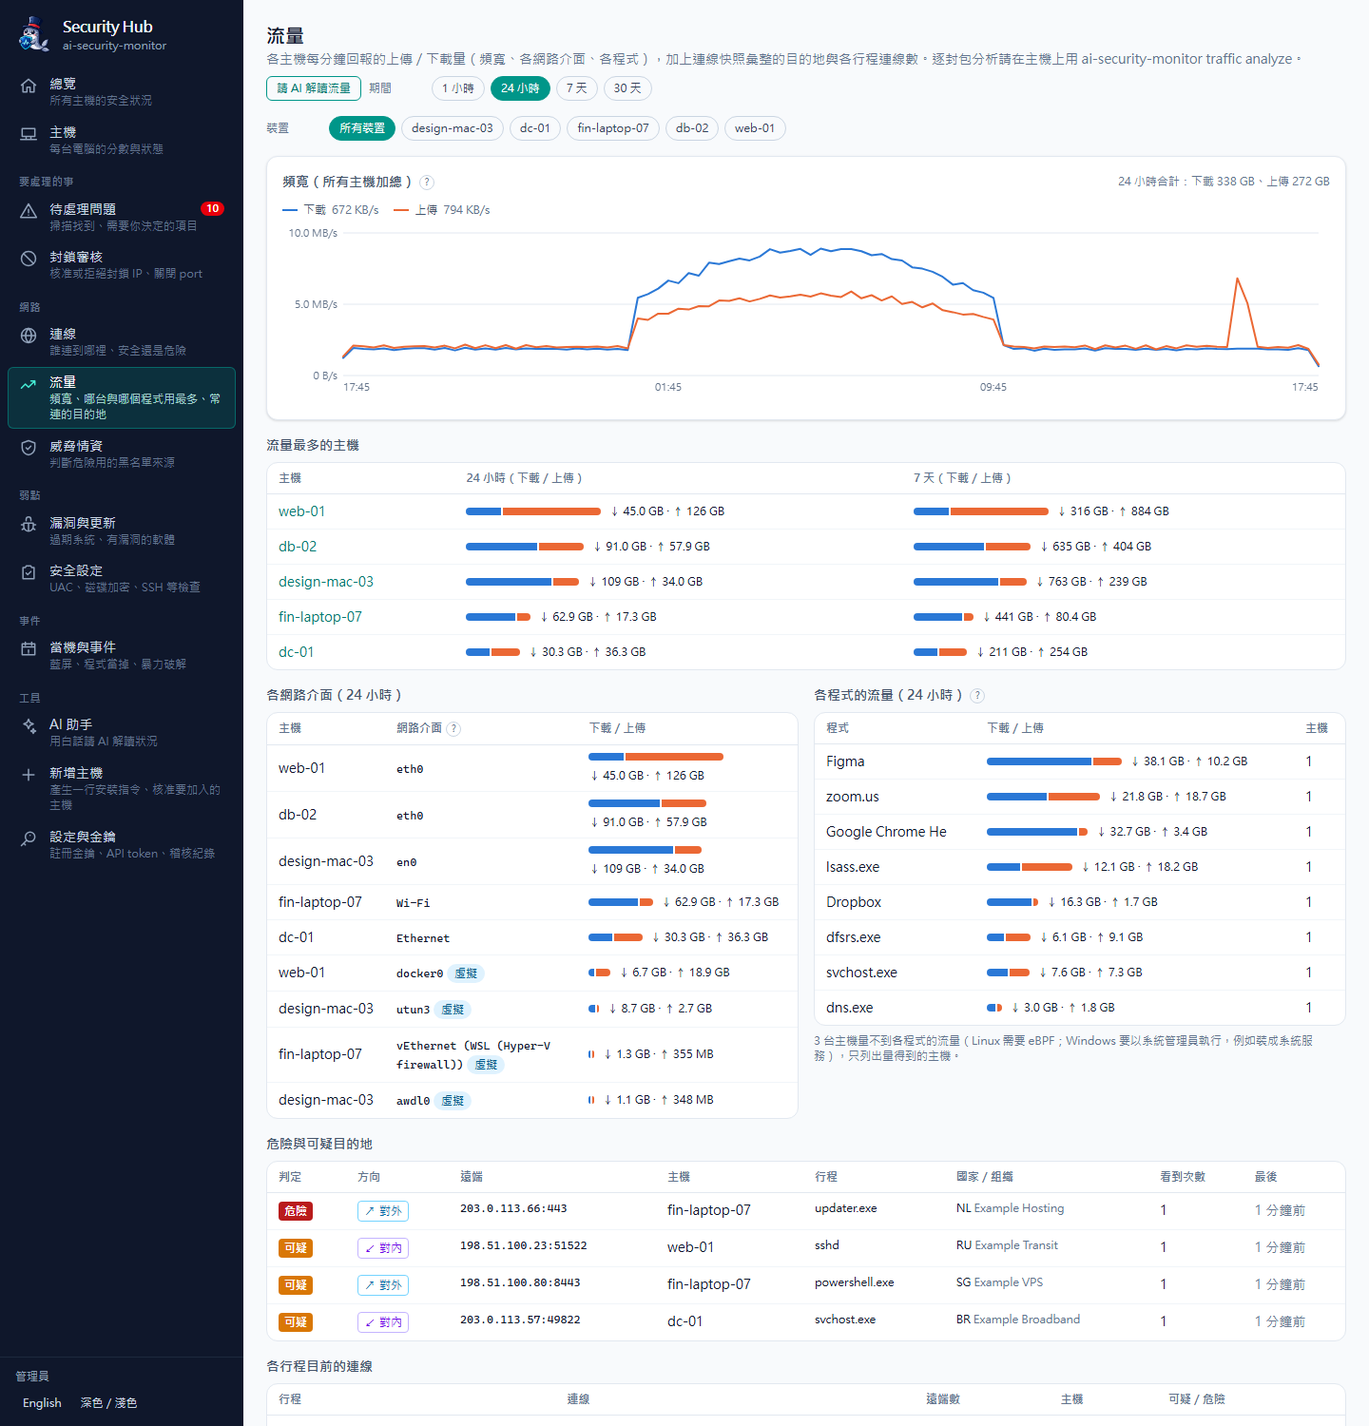
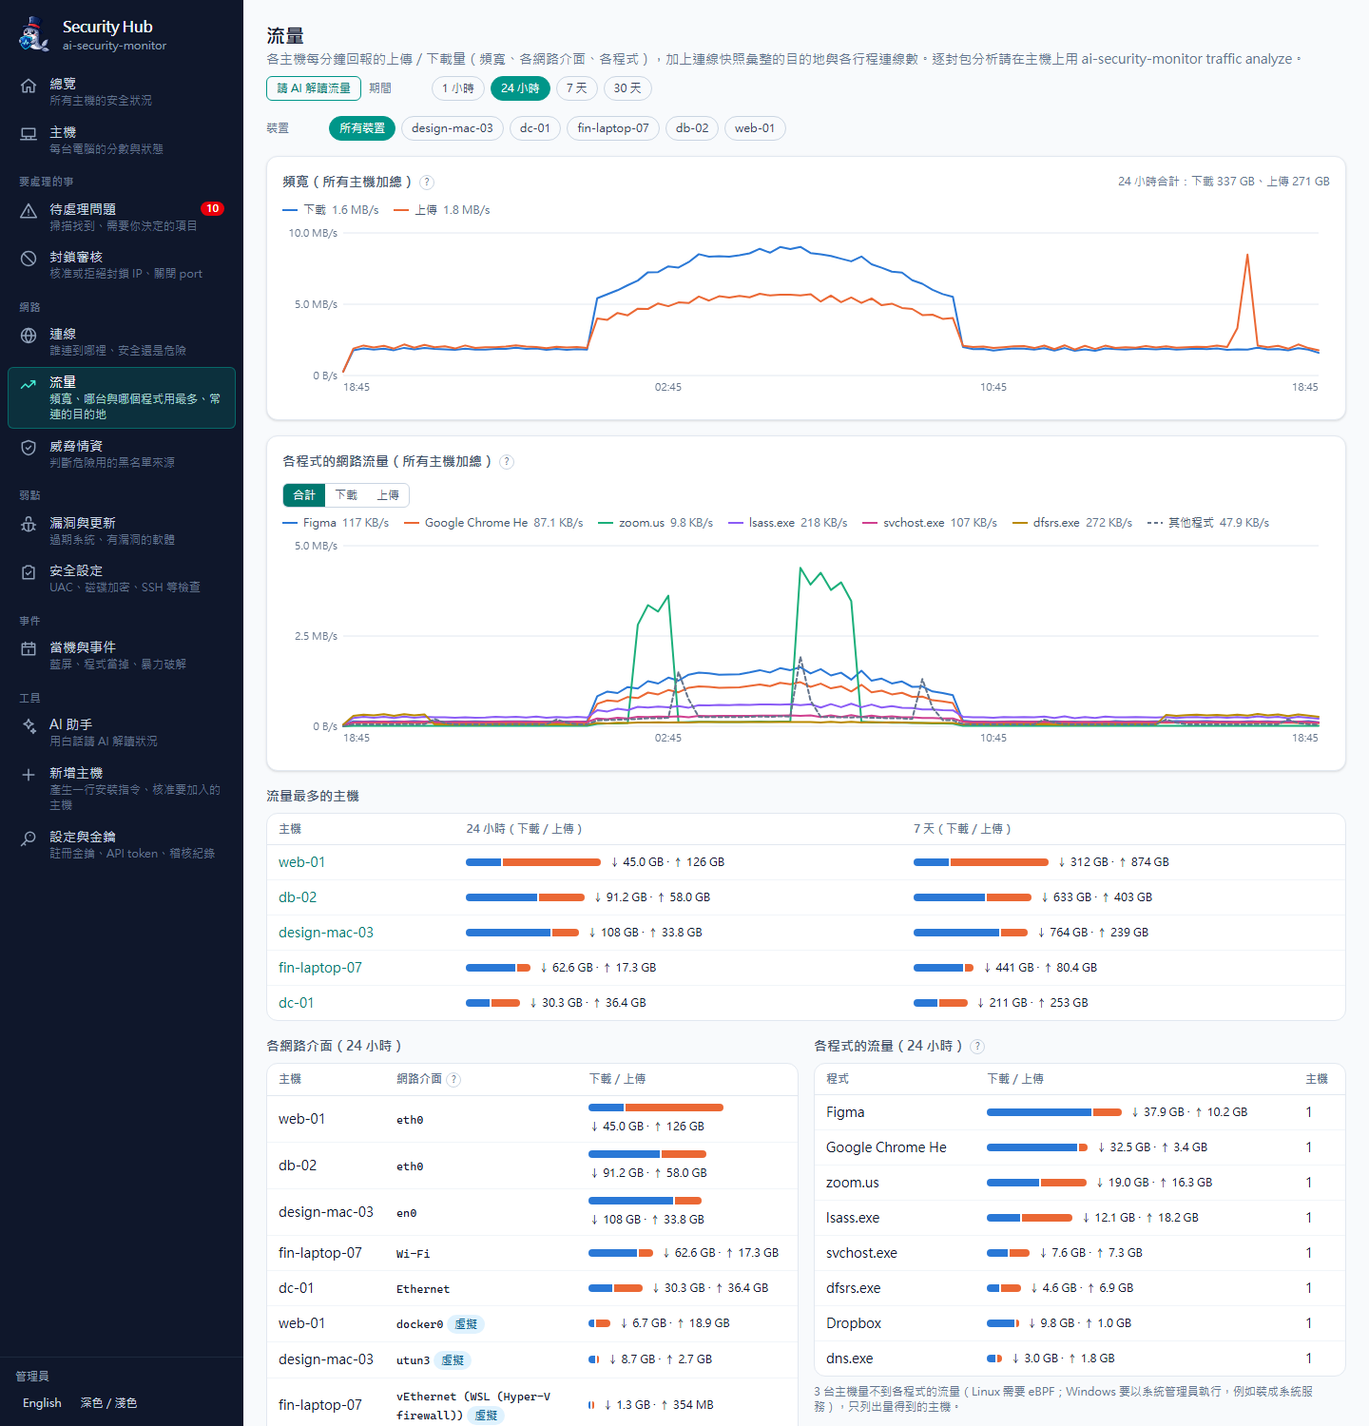
feat(hub): 各程式的網路流量圖（前 6 名各一條線＋其他，可切換合計／下載／上傳）
流量頁與主機「流量」分頁在頻寬圖下多一張各程式的時間序列圖。processSeries() 在 SQL 先把
前 6 名以外合併成「其他」，列數固定；有回報但該程式沒出現的時段算 0、沒人回報的時段斷開。
量不到時直接說明怎麼開（Windows 系統服務、macOS 自動、Linux 量不到）。新增 --chart-4～6
色票；示範資料的程式加上各自的使用時段，重拍流量頁截圖。

diff --git a/hub/components/metrics/MetricsViews.tsx b/hub/components/metrics/MetricsViews.tsx
@@ -1,6 +1,7 @@
 // 網路流量與效能的頁面區塊（server component）：頻寬圖、主機流量排行、各介面、各程式、主機效能分頁。
 import Link from 'next/link';
 import { TimeChart } from '@/components/charts/TimeChart';
+import { ProcessTrafficChart } from '@/components/metrics/ProcessTrafficChart';
 import { Badge } from '@/components/ui/Badge';
 import { Card } from '@/components/ui/Card';
 import { EmptyState } from '@/components/ui/EmptyState';
@@ -14,6 +15,7 @@ import {
   hostPerfSeries,
   interfaceBreakdown,
   latestPerf,
+  processSeries,
   processTraffic,
   type HostTraffic,
   type IfaceTraffic,
@@ -210,7 +212,12 @@ export function ProcessTrafficTable({ t, data, showHosts = true }: { t: TFn; dat
 
 /** 流量頁最上面的區塊：所有主機的頻寬、排行、各介面、各程式。 */
 export async function FleetTrafficSection({ t, range, agentId, ranking = [] }: { t: TFn; range: Range; agentId?: string; ranking?: HostTraffic[] }) {
-  const [bw, ifaces, procs] = await Promise.all([bandwidthSeries(range, agentId), interfaceBreakdown(range, agentId, 30), processTraffic(range, agentId, 15)]);
+  const [bw, ifaces, procs, pseries] = await Promise.all([
+    bandwidthSeries(range, agentId),
+    interfaceBreakdown(range, agentId, 30),
+    processTraffic(range, agentId, 15),
+    processSeries(range, agentId, 6),
+  ]);
   if (!bw.hasData && !ranking.length) {
     return (
       <EmptyState title={t('還沒有流量統計')}>
@@ -235,6 +242,31 @@ export async function FleetTrafficSection({ t, range, agentId, ranking = [] }: {
       >
         <BandwidthChart t={t} data={bw} />
       </Card>
+      <Card
+        title={
+          <span>
+            {agentId ? t('各程式的網路流量') : t('各程式的網路流量（所有主機加總）')}
+            <Hint text={t('哪個程式在什麼時候用了多少網路：流量最多的 6 個程式各一條線，其餘合併成「其他程式」（虛線）。可切換合計、下載、上傳。')} />
+          </span>
+        }
+      >
+        {pseries.hasData ? (
+          <ProcessTrafficChart times={pseries.times} series={pseries.series} timeMode={timeMode(range)} />
+        ) : (
+          <div className="space-y-1 text-sm text-slate-500">
+            <p>{t('這段期間沒有主機回報各程式的流量，所以畫不出這張圖。')}</p>
+            <ul className="list-disc space-y-1 pl-5">
+              <li>
+                {t('Windows：背景服務要以系統管理員身分執行才讀得到。在「系統管理員」PowerShell 執行')}{' '}
+                <code className="rounded bg-slate-100 px-1 font-mono text-xs dark:bg-slate-800">ai-security-monitor service install --system --yes</code>
+                {t('（改成開機時啟動的系統服務），幾分鐘後就會有資料。')}
+              </li>
+              <li>{t('macOS：會自動回報（用系統內建的 nettop）。')}</li>
+              <li>{t('Linux：目前量不到各程式的流量，可以看下方「各行程目前的連線」。')}</li>
+            </ul>
+          </div>
+        )}
+      </Card>
       {!agentId && ranking.length ? (
         <section className="space-y-2">
           <h2 className={H2}>{t('流量最多的主機')}</h2>
@@ -257,7 +289,7 @@ export async function FleetTrafficSection({ t, range, agentId, ranking = [] }: {
             <ProcessTrafficTable t={t} data={procs} showHosts={!agentId} />
           ) : (
             <p className="rounded-xl border border-dashed border-slate-300 p-4 text-sm text-slate-500 dark:border-slate-700">
-              {t('這段期間沒有主機回報各程式的流量（Linux 需要 eBPF；Windows 要以系統管理員執行）。可以改看下方各行程的連線數。')}
+              {t('沒有資料，怎麼開啟請看上方「各程式的網路流量」。')}
             </p>
           )}
         </section>

diff --git a/hub/lib/queries/metrics.ts b/hub/lib/queries/metrics.ts
@@ -186,6 +186,66 @@ export async function processTraffic(range: Range, agentId?: string, limit = 20,
   };
 }
 
+export interface ProcSeries {
+  /** 程式名稱；null＝其餘程式合併的「其他」。 */
+  name: string | null;
+  /** 每個 bucket 的平均速率 bytes/s；這段時間沒有任何主機回報各程式流量是 null。 */
+  rx: (number | null)[];
+  tx: (number | null)[];
+  totalRx: number;
+  totalTx: number;
+}
+
+/** 各程式流量的時間序列：這段期間流量最多的前 top 個程式各一條，其餘合併成「其他」（在 SQL 裡先合併，列數固定）。 */
+export async function processSeries(range: Range, agentId?: string, top = 6, now = new Date()) {
+  const spec = RANGE_SPEC[range];
+  const { t, at } = table(sourceFor(spec.ms, spec.source));
+  const since = new Date(now.getTime() - spec.ms);
+  const res = await getDb().execute(sql`
+    with s as (
+      select floor(extract(epoch from ${at}) / ${spec.bucketS})::bigint * ${spec.bucketS} as b,
+             p->>'name' as name, (p->>'rx')::float8 as rx, (p->>'tx')::float8 as tx
+      from ${t} m join agents a on a.id = m.agent_id and a.deleted_at is null
+      cross join lateral jsonb_array_elements(m.processes) as p
+      where m.processes is not null and ${at} >= ${since.toISOString()}::timestamptz ${agentId ? sql`and m.agent_id = ${agentId}` : sql``}
+    ), top as (
+      select name, row_number() over (order by sum(rx + tx) desc, name) as rank
+      from s group by name order by sum(rx + tx) desc, name limit ${top}
+    )
+    select s.b, top.name, min(top.rank) as rank, sum(s.rx)::float8 as rx, sum(s.tx)::float8 as tx
+    from s left join top on top.name = s.name
+    group by s.b, top.name`);
+  const rows = rowsOf(res);
+  const times = buckets(since.getTime(), now.getTime(), spec.bucketS);
+  const index = new Map(times.map((b, i) => [b, i]));
+  const withData = new Set(rows.map((r) => num(r.b) * 1000));
+  const byName = new Map<string | null, { rank: number; rx: Map<number, number>; tx: Map<number, number> }>();
+  for (const r of rows) {
+    const name = r.name == null ? null : String(r.name);
+    const e = byName.get(name) ?? { rank: name == null ? Number.MAX_SAFE_INTEGER : num(r.rank), rx: new Map(), tx: new Map() };
+    const b = num(r.b) * 1000;
+    if (index.has(b)) {
+      e.rx.set(b, num(r.rx));
+      e.tx.set(b, num(r.tx));
+    }
+    byName.set(name, e);
+  }
+  const series: ProcSeries[] = [...byName.entries()]
+    .sort((x, y) => x[1].rank - y[1].rank)
+    .map(([name, e]) => {
+      // 有主機回報各程式流量、但這個程式沒出現的時段算 0；整段時間都沒人回報才是 null（圖上斷開）
+      const vals = (m: Map<number, number>) => times.map((b) => (withData.has(b) ? (m.get(b) ?? 0) / spec.bucketS : null));
+      return {
+        name,
+        rx: vals(e.rx),
+        tx: vals(e.tx),
+        totalRx: [...e.rx.values()].reduce((a, v) => a + v, 0),
+        totalTx: [...e.tx.values()].reduce((a, v) => a + v, 0),
+      };
+    });
+  return { range, bucketS: spec.bucketS, times: times.map((b) => new Date(b).toISOString()), series, hasData: withData.size > 0 };
+}
+
 export interface PerfPoint {
   t: string;
   cpu: number | null;

diff --git a/hub/messages/en.ts b/hub/messages/en.ts
@@ -959,7 +959,21 @@ export const en: Record<string, string> = {
   '各網路介面（{range}）': 'Per network interface ({range})',
   '各程式的流量（{range}）': 'Traffic per program ({range})',
   '哪個程式收送了多少資料。Windows 要以系統管理員執行（背景服務就是），macOS 用系統內建的 nettop；Linux 量不到，請看下方「各行程目前的連線」。': 'How much data each program sent and received. Windows must run as administrator (the background service does), macOS uses the built-in nettop; Linux cannot measure it, see "Current connections per process" below.',
-  '這段期間沒有主機回報各程式的流量（Linux 需要 eBPF；Windows 要以系統管理員執行）。可以改看下方各行程的連線數。': 'No host reported per-program traffic in this period (Linux needs eBPF; Windows must run as administrator). See the per-process connection counts below instead.',
+  '各程式的網路流量': 'Network traffic by program',
+  '各程式的網路流量（所有主機加總）': 'Network traffic by program (all hosts)',
+  '哪個程式在什麼時候用了多少網路：流量最多的 6 個程式各一條線，其餘合併成「其他程式」（虛線）。可切換合計、下載、上傳。': 'Which program used how much network and when: one line for each of the 6 busiest programs, the rest combined as "Other programs" (dashed). Switch between total, download and upload.',
+  '這段期間沒有主機回報各程式的流量，所以畫不出這張圖。': 'No host reported per-program traffic in this period, so there is nothing to chart.',
+  'Windows：背景服務要以系統管理員身分執行才讀得到。在「系統管理員」PowerShell 執行': 'Windows: the background service has to run as administrator to read it. In an administrator PowerShell run',
+  '（改成開機時啟動的系統服務），幾分鐘後就會有資料。': '(switches to a system service that starts at boot); data shows up within a few minutes.',
+  'macOS：會自動回報（用系統內建的 nettop）。': 'macOS: reported automatically (using the built-in nettop).',
+  'Linux：目前量不到各程式的流量，可以看下方「各行程目前的連線」。': 'Linux: per-program traffic is not available yet; see "Current connections per process" below.',
+  '沒有資料，怎麼開啟請看上方「各程式的網路流量」。': 'No data. See "Network traffic by program" above for how to turn it on.',
+  '各程式的下載＋上傳速率': 'Download + upload rate by program',
+  '各程式的下載速率': 'Download rate by program',
+  '各程式的上傳速率': 'Upload rate by program',
+  '其他程式': 'Other programs',
+  '顯示': 'Show',
+  '合計': 'Total',
   '記憶體': 'Memory',
   '程式實際占用的實體記憶體（RSS）。同名的多個行程（例如瀏覽器）合併計算。': 'Physical memory the program actually uses (RSS). Several processes with the same name (a browser, for example) are added together.',
   '這台主機還沒有回報效能資料': 'This host has not reported performance data yet',

diff --git a/hub/tests/routes/metrics.test.ts b/hub/tests/routes/metrics.test.ts
@@ -1,7 +1,7 @@
 import fs from 'node:fs';
 import path from 'node:path';
 import zlib from 'node:zlib';
-import { and, eq } from 'drizzle-orm';
+import { and, eq, gte } from 'drizzle-orm';
 import { beforeAll, beforeEach, describe, expect, it } from 'vitest';
 import { POST as mcpPost } from '@/app/api/mcp/route';
 import { POST as register } from '@/app/api/v1/agents/register/route';
@@ -22,6 +22,7 @@ import {
   interfaceBreakdown,
   latestPerf,
   perfAlerts,
+  processSeries,
   processTraffic,
   trafficSummary,
 } from '@/lib/queries/metrics';
@@ -218,6 +219,38 @@ describe('metrics findings, queries and rollup', () => {
     const sum = await trafficSummary();
     expect(sum).toMatchObject({ hosts24h: 1, reporting: 1, perfEnabled: 0 });
     expect(sum.rx24h).toBeGreaterThan(0);
+  });
+
+  it('processSeries: top programs get their own line, the rest are merged into "other", gaps stay null', async () => {
+    // 放在 2030 年（不跟其他測試的樣本混在一起），測完刪掉
+    const now = new Date('2030-01-01T01:00:00Z');
+    const at = (m: number) => new Date(Date.UTC(2030, 0, 1, 0, m));
+    const proc = (name: string, rx: number, tx: number) => ({ name, rx, tx });
+    await db.insert(hostMetrics).values([
+      { agentId: A, at: at(10), intervalS: 60, rxBytes: 7320, txBytes: 600, processes: [proc('a', 6000, 600), proc('b', 1200, 0), proc('c', 60, 0)] },
+      { agentId: A, at: at(11), intervalS: 60, rxBytes: 6120, txBytes: 60, processes: [proc('a', 6000, 0), proc('d', 120, 60)] },
+      { agentId: A, at: at(12), intervalS: 60, rxBytes: 100, txBytes: 10, processes: null },
+    ]);
+    try {
+      const s = await processSeries('1h', A, 2, now);
+      expect(s.hasData).toBe(true);
+      expect(s.series.map((x) => x.name)).toEqual(['a', 'b', null]);
+      const i10 = s.times.indexOf(at(10).toISOString());
+      expect(i10).toBeGreaterThanOrEqual(0);
+      const [a, b, other] = s.series;
+      expect(a.rx.slice(i10, i10 + 3)).toEqual([100, 100, null]);
+      expect(a.tx.slice(i10, i10 + 2)).toEqual([10, 0]);
+      // b 在 00:11 沒出現，但那一分鐘有回報各程式 → 0（不是 null）
+      expect(b.rx.slice(i10, i10 + 2)).toEqual([20, 0]);
+      expect(other.rx.slice(i10, i10 + 2)).toEqual([1, 2]);
+      expect(other.tx[i10 + 1]).toBe(1);
+      expect(a.totalRx).toBe(12_000);
+      expect(other.totalRx).toBe(180);
+      expect(s.series.every((x) => x.rx.length === s.times.length)).toBe(true);
+      expect((await processSeries('1h', A, 6, new Date('2031-01-01T00:00:00Z'))).hasData).toBe(false);
+    } finally {
+      await db.delete(hostMetrics).where(and(eq(hostMetrics.agentId, A), gte(hostMetrics.at, at(0))));
+    }
   });
 
   it('hourly rollup is idempotent, feeds the 7-day charts and applies retention', async () => {

diff --git a/hub/components/metrics/ProcessTrafficChart.tsx b/hub/components/metrics/ProcessTrafficChart.tsx
@@ -1,0 +1,43 @@
+'use client';
+
+// 各程式的網路流量圖：前幾名程式各一條線＋「其他」（虛線），可切換合計／下載／上傳。資料由 server 的 processSeries() 算好傳進來。
+import { useState } from 'react';
+import { TimeChart } from '@/components/charts/TimeChart';
+import { useT } from '@/lib/i18n/client';
+import type { ProcSeries } from '@/lib/queries/metrics';
+
+const COLORS = ['var(--chart-1)', 'var(--chart-2)', 'var(--chart-3)', 'var(--chart-4)', 'var(--chart-5)', 'var(--chart-6)'];
+type Metric = 'total' | 'rx' | 'tx';
+
+const add = (a: (number | null)[], b: (number | null)[]) => a.map((v, i) => (v == null && b[i] == null ? null : (v ?? 0) + (b[i] ?? 0)));
+
+export function ProcessTrafficChart({ times, series, timeMode, height = 220 }: { times: string[]; series: ProcSeries[]; timeMode: 'time' | 'date'; height?: number }) {
+  const { t } = useT();
+  const [metric, setMetric] = useState<Metric>('total');
+  const label = { total: t('各程式的下載＋上傳速率'), rx: t('各程式的下載速率'), tx: t('各程式的上傳速率') }[metric];
+  let color = 0;
+  const lines = series.map((s) => ({
+    label: s.name ?? t('其他程式'),
+    color: s.name == null ? 'var(--chart-axis)' : COLORS[color++ % COLORS.length],
+    dashed: s.name == null,
+    values: metric === 'rx' ? s.rx : metric === 'tx' ? s.tx : add(s.rx, s.tx),
+  }));
+  return (
+    <div className="space-y-2">
+      <div role="group" aria-label={t('顯示')} className="inline-flex overflow-hidden rounded-md border border-slate-300 text-xs dark:border-slate-700">
+        {(['total', 'rx', 'tx'] as const).map((m) => (
+          <button
+            key={m}
+            type="button"
+            aria-pressed={metric === m}
+            onClick={() => setMetric(m)}
+            className={`px-2.5 py-1 ${metric === m ? 'bg-teal-700 text-white' : 'text-slate-600 hover:bg-slate-100 dark:text-slate-300 dark:hover:bg-slate-800'}`}
+          >
+            {{ total: t('合計'), rx: t('下載'), tx: t('上傳') }[m]}
+          </button>
+        ))}
+      </div>
+      <TimeChart label={label} format="rate" height={height} timeMode={timeMode} times={times} series={lines} />
+    </div>
+  );
+}

diff --git a/hub/app/globals.css b/hub/app/globals.css
@@ -24,10 +24,13 @@
 
 :root {
   color-scheme: light;
-  /* 圖表：類別色（下載＝藍、上傳＝橘）、格線、座標字 */
+  /* 圖表：類別色（下載＝藍、上傳＝橘；各程式圖用 1–6）、格線、座標字 */
   --chart-1: #2a78d6;
   --chart-2: #eb6834;
   --chart-3: #1baf7a;
+  --chart-4: #8b5cf6;
+  --chart-5: #d03f8f;
+  --chart-6: #b98900;
   --chart-grid: #e2e8f0;
   --chart-axis: #64748b;
   --chart-surface: #ffffff;
@@ -38,6 +41,9 @@
   --chart-1: #3987e5;
   --chart-2: #d95926;
   --chart-3: #199e70;
+  --chart-4: #a78bfa;
+  --chart-5: #e2589f;
+  --chart-6: #d4a017;
   --chart-grid: #1e293b;
   --chart-axis: #94a3b8;
   --chart-surface: #0f172a;

diff --git a/docs/metrics.en.md b/docs/metrics.en.md
@@ -87,8 +87,10 @@ The MCP tool `get_metrics` returns the same plus a summary of the last hour (pea
   idempotent and guarded by a PostgreSQL advisory lock, so with several Hub processes only one does the work; the same run deletes expired data.
 - **Pages**:
   - Traffic: ranges 1 hour / 24 hours / 7 days / 30 days (1 h and 24 h from per-minute data, 7 d and 30 d from hourly rollups); fleet bandwidth chart
-    (download/upload, hover for each time slot), hosts with the most traffic (24 h and 7 days), per network card (virtual ones marked), traffic per
-    program (hosts that cannot measure it are noted). The device filter narrows it to one host.
+    (download/upload, hover for each time slot), a **per-program traffic chart** (one line for each of the 6 busiest programs, the rest combined as a
+    dashed "Other programs" line; switch between total, download and upload), hosts with the most traffic (24 h and 7 days), per network card (virtual
+    ones marked), a per-program traffic table (hosts that cannot measure it are noted). The device filter narrows it to one host; the host page's
+    "Traffic" tab has the same chart.
   - Host page "Performance" tab: current CPU, memory, fullest volume and battery or uptime; charts of CPU (average and peak), memory, disk usage,
     disk I/O, network rate and battery; top programs by CPU and memory; volumes. When the host has not turned it on, an "off" notice explains how,
     and the network rate chart is still shown. The host's "Traffic" tab also gets its bandwidth and per-card breakdown.
@@ -109,7 +111,9 @@ The MCP tool `get_metrics` returns the same plus a summary of the last hour (pea
 ## Limitations
 
 - Linux has no per-program network usage (not without eBPF); the Hub's traffic page shows "Current connections per process" instead.
-- Per-program usage on Windows needs administrator rights and counts TCP payload bytes only; the per-user sign-in variant does not have it.
+- Per-program usage on Windows needs administrator rights and counts TCP payload bytes only; the per-user sign-in variant does not have it (the Hub's
+  per-program chart stays empty). To get it, run `ai-security-monitor service install --system --yes` in an administrator PowerShell to switch to a
+  system service that starts at boot.
 - macOS `nettop` may be unavailable on some managed machines (MDM restrictions); only the per-program figures are missing then.
 - Disk I/O depends on the platform: Windows has none when disk performance counters are off (`diskperf -n`); network drives and tmpfs are not listed.
 - If the computer sleeps or shuts down within an interval, that time's bytes are counted in the first sample after waking (rates use the real elapsed time).

diff --git a/CHANGELOG.md b/CHANGELOG.md
@@ -2,6 +2,7 @@
 
 ## 未發佈
 
+- **各程式的網路流量圖**：Hub 流量頁與主機「流量」分頁在頻寬圖下面多了一張圖，流量最多的 6 個程式各一條線、其餘合併成「其他程式」（虛線），可切換合計／下載／上傳，滑過看各時段的速率。量不到時直接說明怎麼開（Windows 要以系統管理員執行背景服務：`ai-security-monitor service install --system --yes`；macOS 自動有；Linux 量不到）。查詢在 SQL 裡先把前 6 名以外合併，列數固定。示範資料的程式加上各自的使用時段（開會、定時同步、半夜複寫）。
 - **加入模式：自動允許加入（預設）／審核加入**：「新增主機」頁新增「加入模式」。自動模式下電腦端送出申請就直接加入（電腦端不再顯示「等候管理員核准」）；填了「自動核准的網段」時只有那些網段自動加入、其他等你核准。審核模式＝以前的行為。環境變數 `AI_SECURITY_MONITOR_HUB_ENROLL_MODE=auto|review` 可鎖定。保護：以前加入過但身分沒釘選或已刪除的主機一律人工核准；自動核准每 10 分鐘最多 60 台、未領取最多 500 台，超過改成等人工核准（稽核 `enroll_request.auto_capped`）。**升級注意：沒設定過加入模式的 Hub 升級後會變成自動允許加入**，要維持人工核准請到「新增主機 → 加入模式」選「審核加入」或設上面的環境變數。
 - **專有名詞即時提示＋分數圓環一致**：總覽五個安全分數圓環改成同樣大小（主機頁也是），滑過或用鍵盤聚焦圓環、標籤、卡片標題旁的「?」立即顯示白話說明（總分怎麼算、連線／對外曝露／漏洞／安全設定各代表什麼、扣分方式）；全站既有的「?」提示改成即時、不被表格裁切的樣式化提示。「硬化」統一改稱「安全設定」。
 
